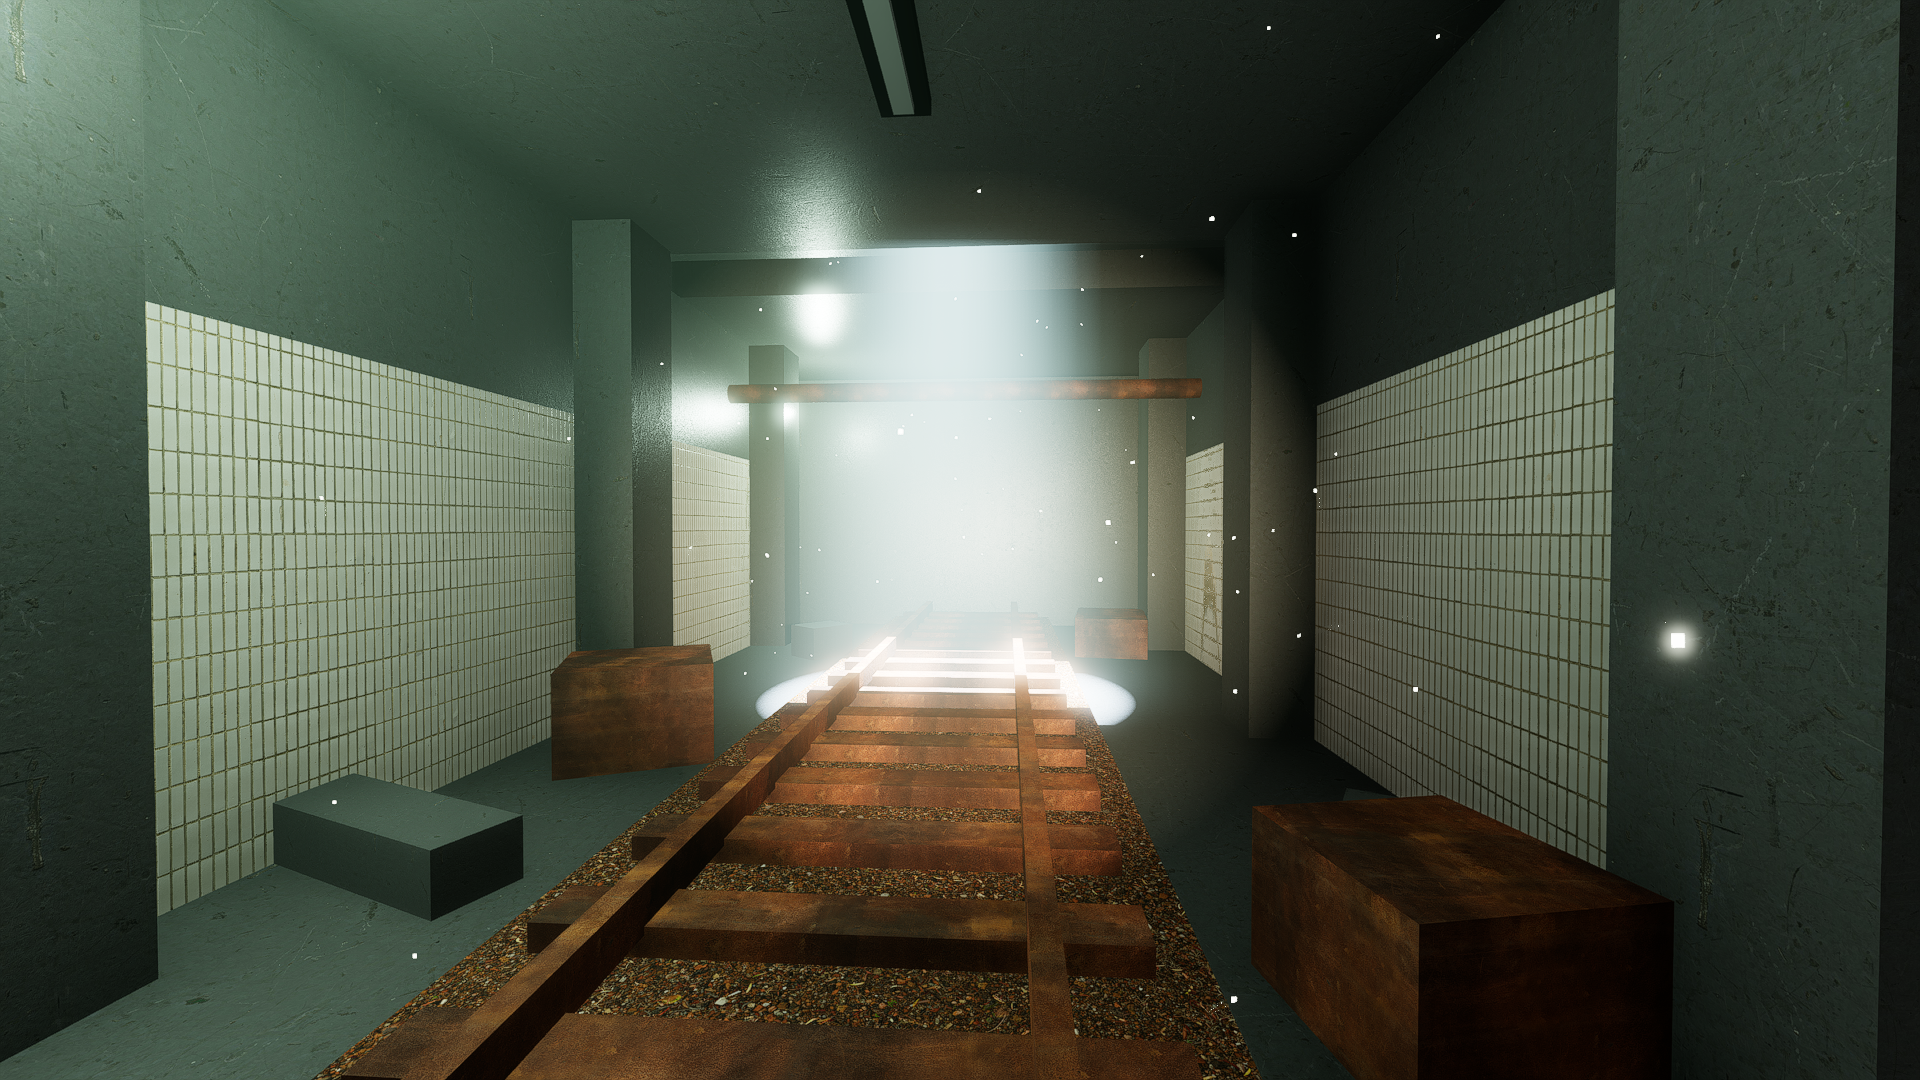
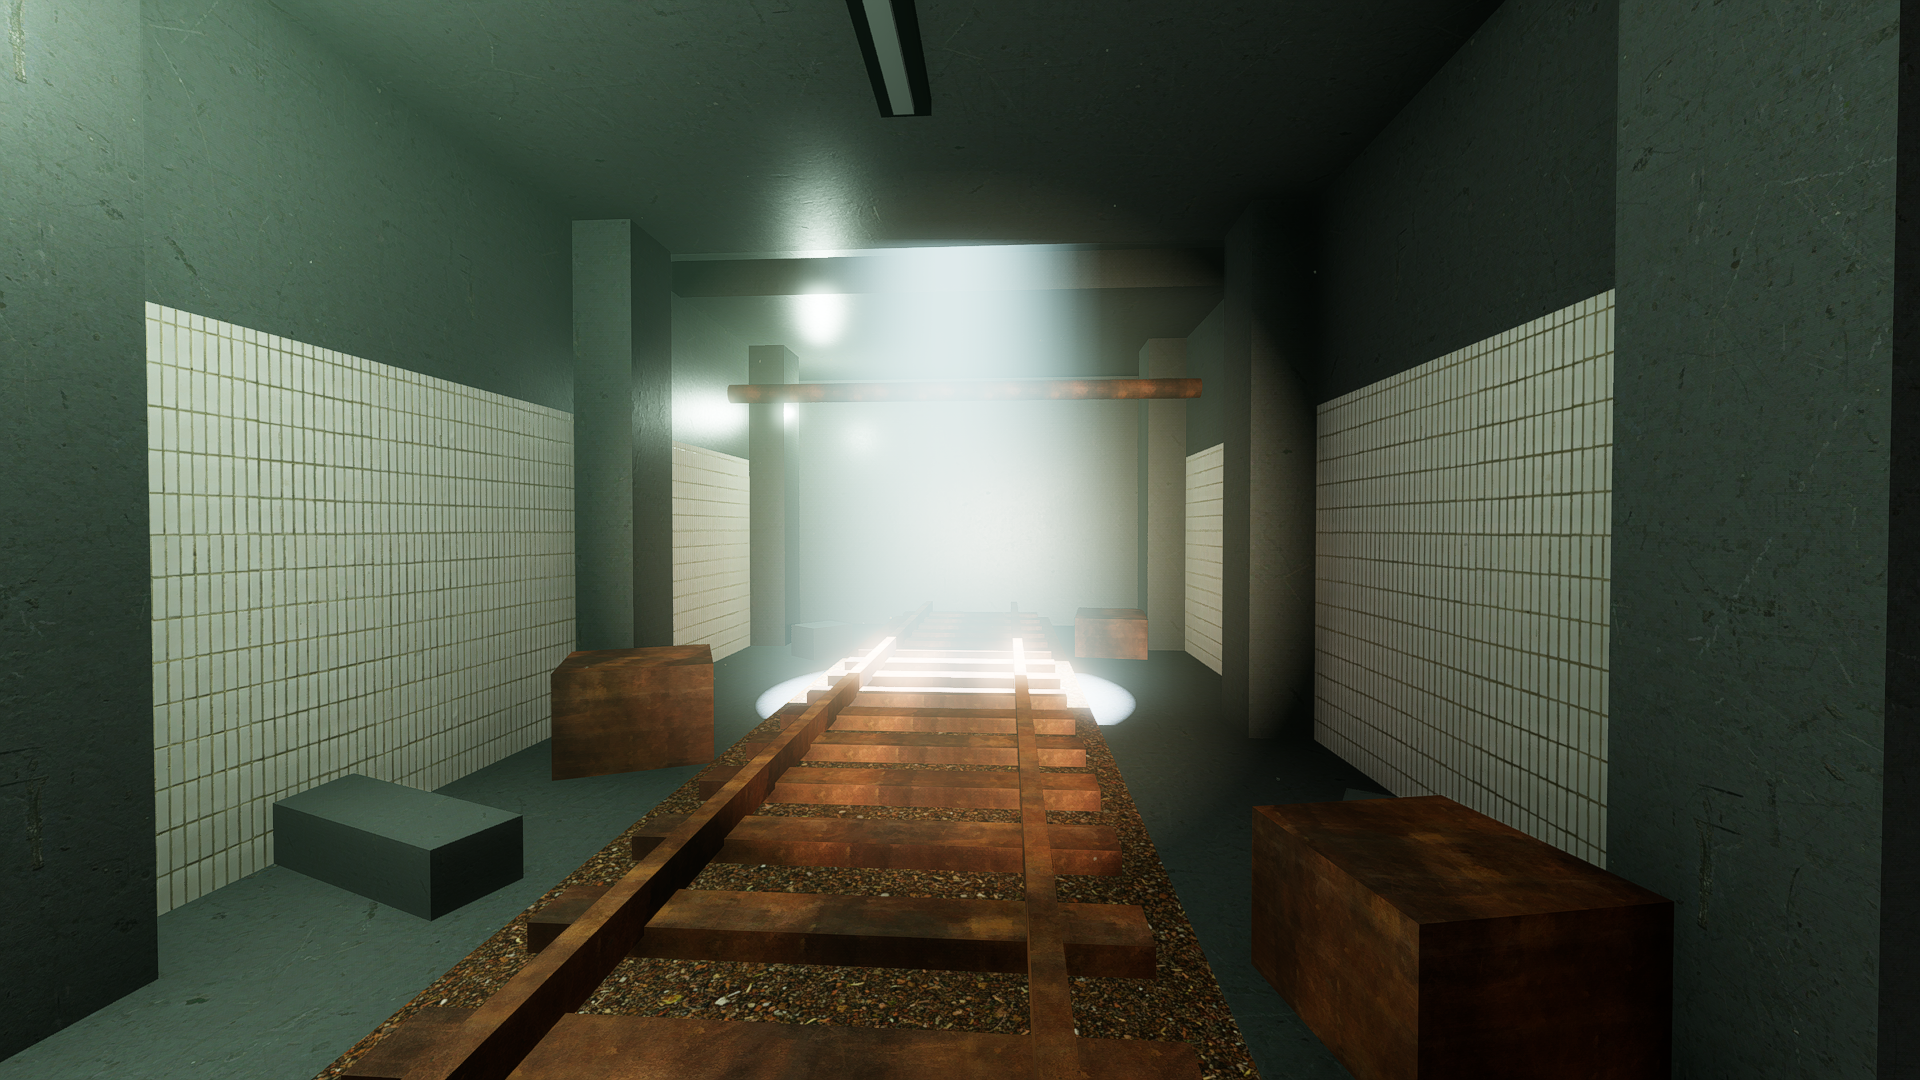
Look-Probe: Textur-Import (Mipmaps, VRAM), Look.apply, Staub dezenter, Fetch-Haertung

diff --git a/tools/fetch_polyhaven.py b/tools/fetch_polyhaven.py
@@ -7,13 +7,33 @@ Nur Standardbibliothek. Mehrfacher Aufruf ist idempotent (CREDITS-Zeile genau ei
 import argparse
 import json
 import os
+import sys
+import urllib.error
 import urllib.request
 
 API = "https://api.polyhaven.com"
 HEADERS = {"User-Agent": "Funkstille/0.1"}
 # Poly-Haven-Map-Name -> Dateiname im Projekt
 MAPS = {"Diffuse": "diffuse", "nor_gl": "normal", "Rough": "rough", "AO": "ao"}
+# Pflicht-Maps: ohne sie bricht der Download ab
+REQUIRED = ("Diffuse", "nor_gl")
 ROOT = os.path.dirname(os.path.dirname(os.path.abspath(__file__)))
+
+
+def write_import(dest: str, normal: bool) -> None:
+    """Schreibt die .import-Datei mit 3D-Einstellungen (VRAM-Kompression, Mipmaps).
+
+    Der headless-Import erkennt sonst nicht, dass die Textur im 3D-Material landet, und
+    importiert verlustfrei ohne Mipmaps (Flimmern, 2k unkomprimiert).
+    """
+    text = (
+        '[remap]\n\nimporter="texture"\ntype="CompressedTexture2D"\n\n[params]\n\n'
+        "compress/mode=2\ncompress/high_quality=false\ncompress/lossy_quality=0.7\n"
+        f"compress/normal_map={1 if normal else 0}\n"
+        "mipmaps/generate=true\nmipmaps/limit=-1\n"
+        "process/fix_alpha_border=true\ndetect_3d/compress_to=1\n"
+    )
+    open(dest + ".import", "w").write(text)
 
 
 def get(url: str) -> bytes:
@@ -27,7 +47,7 @@ def add_credit(asset_id: str) -> None:
     url = f"https://polyhaven.com/a/{asset_id}"
     path = os.path.join(ROOT, "CREDITS.md")
     text = open(path, encoding="utf-8").read()
-    if url in text:
+    if url + " |" in text:
         return
     if not text.endswith("\n"):
         text += "\n"
@@ -40,20 +60,26 @@ def main() -> None:
     ap.add_argument("asset_id")
     ap.add_argument("--res", default="2k")
     a = ap.parse_args()
-    files = json.loads(get(f"{API}/files/{a.asset_id}"))
-    out = os.path.join(ROOT, "assets", "textures", a.asset_id)
-    os.makedirs(out, exist_ok=True)
-    for key, name in MAPS.items():
-        try:
-            url = files[key][a.res]["jpg"]["url"]
-        except KeyError:
-            print(f"  {key}: nicht in {a.res}/jpg vorhanden, uebersprungen")
-            continue
-        dest = os.path.join(out, name + ".jpg")
-        if not os.path.exists(dest):
-            open(dest, "wb").write(get(url))
-        print(f"  {dest}")
-    add_credit(a.asset_id)
+    try:
+        files = json.loads(get(f"{API}/files/{a.asset_id}"))
+        out = os.path.join(ROOT, "assets", "textures", a.asset_id)
+        os.makedirs(out, exist_ok=True)
+        for key, name in MAPS.items():
+            try:
+                url = files[key][a.res]["jpg"]["url"]
+            except (KeyError, TypeError):
+                if key in REQUIRED:
+                    sys.exit(f"Fehler: {a.asset_id} hat keine Map {key} in {a.res}/jpg")
+                print(f"  {key}: nicht in {a.res}/jpg vorhanden, uebersprungen")
+                continue
+            dest = os.path.join(out, name + ".jpg")
+            if not os.path.exists(dest):
+                open(dest, "wb").write(get(url))
+            write_import(dest, name == "normal")
+            print(f"  {dest}")
+        add_credit(a.asset_id)
+    except (urllib.error.HTTPError, urllib.error.URLError) as e:
+        sys.exit(f"Fehler beim Laden von {a.asset_id}: {e}")
 
 
 if __name__ == "__main__":

diff --git a/docs/look-probe.md b/docs/look-probe.md
@@ -4,13 +4,15 @@ Ein 12 m langes Tunnelstück (`scenes/look_probe.tscn`) mit PBR-Kacheln, Beton, 
 Volumetric Fog, Taschenlampe, Lichtschacht in der Decke und Staub. Gemessen auf MacBook Pro
 M1 Max, Fenster 1920×1080, `scaling_3d_mode` FSR2 bei 0,75, V-Sync aus, 5 s Durchschnitt:
 
-| GI-Variante | fps (Lauf 1 / Lauf 2 / Lauf 3) | Bild |
+| GI-Variante | fps | Bild |
 |---|---|---|
-| SDFGI | 72,8 / 69,8 / 71,8 | `docs/screenshots/look-sdfgi.png` |
-| VoxelGI (128er Unterteilung, zur Laufzeit gebacken) | 85,1 / 69,0 / 75,9 | `docs/screenshots/look-voxelgi.png` |
-| ohne GI | 106,2 / 97,6 / 105,8 | `docs/screenshots/look-none.png` |
+| SDFGI | 106,8 | `docs/screenshots/look-sdfgi.png` |
+| VoxelGI (128er Unterteilung, zur Laufzeit gebacken) | 106,3 | `docs/screenshots/look-voxelgi.png` |
+| ohne GI | 149,1 | `docs/screenshots/look-none.png` |
 
-(Lauf 1 und 2 haben noch andere Licht-Einstellungen, nur Lauf 3 gehört zu den Screenshots.)
+Korrektur: Die ersten Messungen (SDFGI ca. 72, VoxelGI ca. 75, ohne GI ca. 106 fps) liefen mit
+falsch importierten Texturen (unkomprimiert, ohne Mipmaps). Die Werte oben sind mit VRAM-Kompression
+und Mipmaps gemessen; die .import-Dateien schreibt jetzt `tools/fetch_polyhaven.py`.
 
 ## Entscheidung: SDFGI
 
@@ -29,9 +31,10 @@ Farbstreuung vom Rost und keine Lichtübernahme vom Lichtschacht.
   macht ihn grün und flach, weniger lässt die Ecken im Schwarz absaufen (erste Fassung).
 - Auto-Belichtung liegt in Godot in `CameraAttributesPractical`, nicht im `Environment`;
   `Look.make_camera_attributes()` liefert sie.
-- SDFGI und der Nebel kosten zusammen etwa 30 fps gegenüber „ohne GI"; bei dem 175 m langen
-  Level ist die Reserve über 60 fps knapp. Zuerst kürzen: SDFGI-Kaskaden 4 → 3, Nebel-Länge,
+- SDFGI und der Nebel kosten etwa 40 fps gegenüber „ohne GI"; bei dem 175 m langen
+  Level bleibt trotzdem eine Reserve von rund 45 fps über 60. Zuerst kürzen: SDFGI-Kaskaden 4 → 3, Nebel-Länge,
   SSIL aus, FSR2-Skalierung auf 0,67.
 - Taschenlampenkegel hat noch einen sichtbar harten Fleck auf dem Boden (Nebel-Fleck am Kegelrand
   bei z -9); beim Level feintunen.
 - Texturen: `long_white_tiles`, `concrete_floor_worn_001`, `rocky_gravel`, `rust_coarse_01` (alle 2k).
+- Staub ist klein, gedämpft und gelit (nicht selbstleuchtend), nur im Lichtkegel sichtbar.
